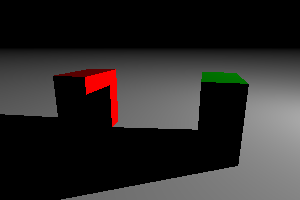
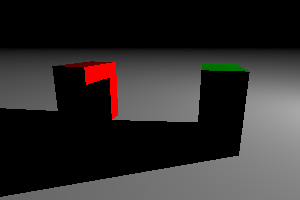
depth of field

diff --git a/unit_test.go b/unit_test.go
@@ -133,7 +133,7 @@ func TestSlabIntersect(t *testing.T) {
 	cube := And(And(s1, s2), s3)
 	cube = Transf(cube, RotY4(160*Deg).Mul(RotX4(20*Deg)))
 	e.Add(cube)
-	e.Camera = Camera(1).Transl(0, 0, -4)
+	e.Camera = Camera(1).Transl(0, 0, -5)
 
 	Compare(t, e, "009-slabintersect")
 }
@@ -147,7 +147,7 @@ func TestSheet(t *testing.T) {
 	s3 := Sheet(Ex, -10, Flat(WHITE))
 	s4 := Sphere(Vec{1.5, 0, 3}, 1, ShadeNormal(Ez))
 	e.Add(s1, s2, s3, s4)
-	e.Camera = Camera(1)
+	e.Camera = Camera(1).Transl(0, 0, -1)
 
 	Compare(t, e, "010-sheet")
 }
@@ -179,7 +179,7 @@ func TestBox(t *testing.T) {
 	b = Transf(b, RotY4(150*Deg))
 	g := Sheet(Ey, -1, Flat(GREEN.Mul(EV(-4))))
 	e.Add(b, g)
-	e.Camera = Camera(1).Transl(0, 0, -4)
+	e.Camera = Camera(1).Transl(0, 0, -5)
 
 	Compare(t, e, "012-box")
 }
@@ -193,7 +193,7 @@ func TestDiffuse0(t *testing.T) {
 
 	l := DirLight(Vec{1, 0.5, -4}, WHITE.Mul(EV(0)))
 	e.AddLight(l)
-	e.Camera = Camera(1).Transl(0, 0, -4)
+	e.Camera = Camera(1).Transl(0, 0, -5)
 
 	Compare(t, e, "013-diffuse0")
 }
@@ -213,7 +213,7 @@ func TestObjOr1(t *testing.T) {
 
 	l := DirLight(Vec{4, 2, -6}, WHITE.Mul(EV(0)))
 	e.AddLight(l)
-	e.Camera = Camera(1).Transl(0, 1.5, -5).Transf(RotX4(15 * Deg))
+	e.Camera = Camera(1).Transl(0, 1.5, -6).Transf(RotX4(15 * Deg))
 
 	Compare(t, e, "014-objor1")
 }
@@ -231,7 +231,7 @@ func TestObjOr2(t *testing.T) {
 	l := DirLight(Vec{8, 2, 0}, WHITE.Mul(EV(0)))
 	e.AddLight(l)
 
-	e.Camera = Camera(1).Transl(0, 1.5, -5).Transf(RotX4(15 * Deg))
+	e.Camera = Camera(1).Transl(0, 1.5, -6).Transf(RotX4(15 * Deg))
 
 	Compare(t, e, "015-objor2")
 }
@@ -251,7 +251,7 @@ func TestPointLight(t *testing.T) {
 	e.Add(s)
 
 	e.AddLight(PointLight(Vec{0, 2.1, 0}, WHITE.Mul(4*Pi)))
-	e.Camera = Camera(1).Transl(0, 1, -2)
+	e.Camera = Camera(1).Transl(0, 1, -3)
 
 	Compare(t, e, "016-pointlight")
 }
@@ -295,7 +295,7 @@ func whitebox(refl float64) *Env {
 		Sheet(Ez, 1, white),
 	)
 	e.AddLight(PointLight(Vec{}, WHITE.Mul(EV(-3)).Mul(4*Pi)))
-	e.Camera = Camera(0.75).Transl(0, 0, -0.95)
+	e.Camera = Camera(0.75).Transl(0, 0, -1)
 	e.Camera.AA = true
 	return e
 }
@@ -310,7 +310,7 @@ func TestShadowBehind(t *testing.T) {
 		Box(Vec{0, -1, 0}, r, r, r, Diffuse0(WHITE)),
 	)
 	e.AddLight(PointLight(Vec{1, 4, -4}, WHITE.Mul(EV(5)).Mul(4*Pi)))
-	e.Camera = Camera(1).Transl(0, 1, -2)
+	e.Camera = Camera(1).Transl(0, 1, -3)
 	Compare(t, e, "019-shadowbehind")
 }
 
@@ -330,7 +330,7 @@ func TestLuminousObject(t *testing.T) {
 	)
 	e.SetAmbient(Flat(WHITE.Mul(EV(-5))))
 
-	e.Camera = Camera(1).Transl(0, 2.5, -6).Transf(RotX4(22 * Deg))
+	e.Camera = Camera(1).Transl(0, 2.5, -7).Transf(RotX4(22 * Deg))
 	e.Camera.AA = true
 
 	img := MakeImage(testW, testH)
@@ -352,7 +352,7 @@ func TestQuad(t *testing.T) {
 	)
 	e.SetAmbient(Flat(WHITE.Mul(EV(-5))))
 
-	e.Camera = Camera(1).Transl(0, 0, -6)
+	e.Camera = Camera(1).Transl(0, 0, -7)
 	e.Camera.AA = false
 	Compare(t, e, "021-quad-hyper")
 }
@@ -372,7 +372,7 @@ func TestObjMinus(t *testing.T) {
 
 	l := DirLight(Vec{2, 1.5, -4}, WHITE.Mul(EV(0)))
 	e.AddLight(l)
-	e.Camera = Camera(1).Transl(0, 1, -2).Transf(RotX4(10 * Deg))
+	e.Camera = Camera(1).Transl(0, 1, -3).Transf(RotX4(10 * Deg))
 
 	Compare(t, e, "014-objminus")
 }
@@ -392,7 +392,7 @@ func TestHollowAnd(t *testing.T) {
 	)
 	e.SetAmbient(Flat(WHITE.Mul(EV(-5))))
 
-	e.Camera = Camera(1).Transl(0, 2.5, -6).Transf(RotX4(22 * Deg))
+	e.Camera = Camera(1).Transl(0, 2.5, -7).Transf(RotX4(22 * Deg))
 	e.Camera.AA = true
 
 	img := MakeImage(testW, testH)
@@ -465,26 +465,41 @@ func TestCornellBox(t *testing.T) {
 	)
 
 	e.AddLight(
-		RectLight(Vec{0, h - 1e-4, 0}, 120/2, 0, 120/2, Color{1.0, 1.0, 0.6}.EV(1)),
+		RectLight(Vec{0, h - 1e-4, 0}, 120/2, 0, 120/2, Color{1.0, 1.0, 0.6}.EV(18)),
 	)
 
-	e.SetAmbient(Flat(WHITE.EV(-10)))
+	e.SetAmbient(Flat(WHITE.EV(-6)))
 
 	focalLen := 0.035 / 0.025
-	e.Camera = Camera(focalLen).Transl(0, h/2, -1050)
+	e.Camera = Camera(focalLen).Transl(0, h/2, -1000)
 	e.Camera.AA = true
 	e.Recursion = 10
-	e.Cutoff = EV(6)
+	e.Cutoff = EV(3)
 
 	nPass := 20
 	img := MakeImage(testW, testH)
 	MultiPass(e, img, nPass)
 	name := "024-cornellbox"
-	CompareImg(t, e, img, name, 100)
+	CompareImg(t, e, img, name, 10)
 }
 
-//func TestTexture(t*testing.T){
-//	e := NewEnv()
-//
-//
-//}
+func TestDOF(t *testing.T) {
+	e := NewEnv()
+
+	e.Add(
+		Sheet(Ey, 0, Checkboard(1, Flat(WHITE), Flat(BLACK))),
+	)
+
+	e.SetAmbient(Flat(WHITE.EV(-2)))
+
+	e.Camera = Camera(1).Transl(0, 10, 0).Transf(RotX4(30 * Deg)) //.RotScene(30 * Deg).Transf(RotX4(30 * Deg))
+	e.Camera.AA = true
+	e.Camera.Aperture = 1
+	e.Camera.Focus = 20
+	e.Recursion = 1
+
+	nPass := 30
+	img := MakeImage(testW, testH)
+	MultiPass(e, img, nPass)
+	CompareImg(t, e, img, "025-dof", 10)
+}

diff --git a/camera.go b/camera.go
@@ -3,6 +3,8 @@ package bruteray
 // Camera renders a scene into a raw intensity image.
 type Cam struct {
 	FocalLen float64
+	Focus    float64
+	Aperture float64
 	transf   Matrix4
 	AA       bool
 }
@@ -19,20 +21,34 @@ func Camera(focalLen float64) *Cam {
 }
 
 func (c *Cam) RayFrom(e *Env, i, j int, W, H int) *Ray {
-	focalPoint := Vec{0, 0, -c.FocalLen}
+	//focalPoint := Vec{0, 0, 0}
 
 	r := new(Ray)
+	r.Start = Vec{}
 
-	// ray start point
-	y0 := (-float64(i) + c.aa(e) + float64(H)/2) / float64(H)
-	x0 := (float64(j) + c.aa(e) - float64(W)/2) / float64(H)
-	r.Start = Vec{x0, y0, 0}
+	if c.Aperture > 0 {
+		xs, ys := randCircle(e)
+		xs *= c.Aperture
+		ys *= c.Aperture
+		r.Start = Vec{xs, ys, 0}
+	}
+
+	// ray end point
+	y0 := ((-float64(i) + c.aa(e) + float64(H)/2) / float64(H))
+	x0 := ((float64(j) + c.aa(e) - float64(W)/2) / float64(H))
+	z0 := c.FocalLen
+
+	end := Vec{x0, y0, z0}
+	if c.Focus > 0 {
+		end = end.Mul(c.Focus)
+	}
 
 	// ray direction
 	if c.FocalLen != 0 {
-		r.SetDir(r.Start.Sub(focalPoint).Normalized())
+		r.SetDir(end.Sub(r.Start).Normalized())
 	} else {
 		r.SetDir(Vec{0, 0, 1})
+		r.Start = Vec{x0, y0, 0}
 	}
 
 	// camera transform

diff --git a/rand.go b/rand.go
@@ -57,3 +57,14 @@ func randVecCos(e *Env, dir Vec) Vec {
 	}
 	return v
 }
+
+// randCircle draws a point from the unit disk.
+func randCircle(e *Env) (x, y float64) {
+	x = 2*random(e) - 1
+	y = 2*random(e) - 1
+	for sqrt(x*x+y*y) > 1 {
+		x = 2*random(e) - 1
+		y = 2*random(e) - 1
+	}
+	return x, y
+}

diff --git a/sampling_test.go b/sampling_test.go
@@ -18,7 +18,7 @@ func TestImportanceSampling(t *testing.T) {
 	}
 
 	const (
-		N   = 2e4
+		N   = 3e4
 		tol = 5e-2 // a few times 1/sqrt(N)
 	)
 
